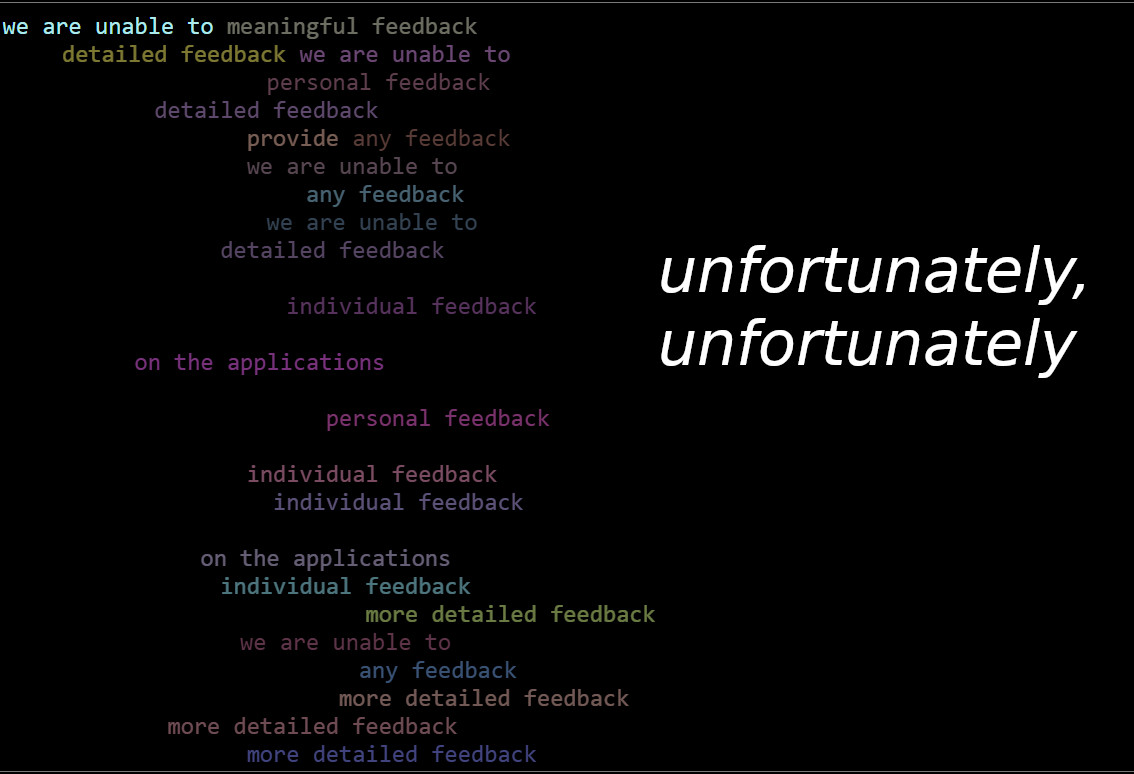
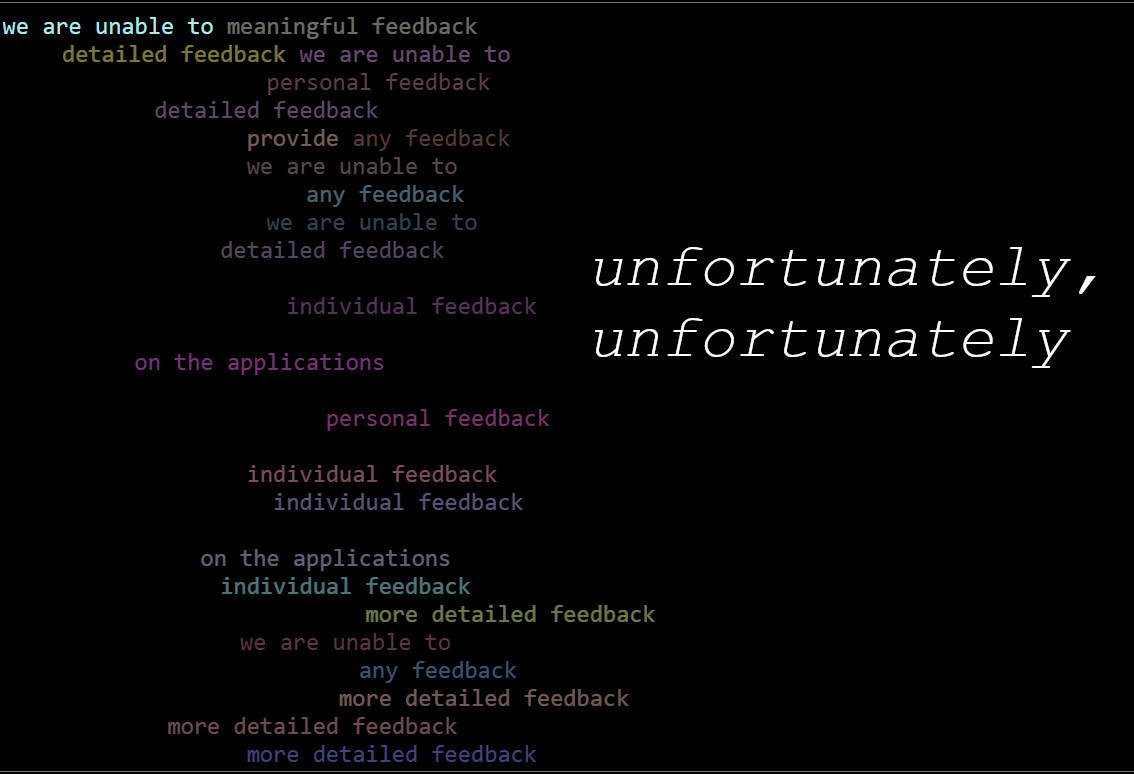
updated image, rejigged <script> tag

Changed region(s): [[0.5247, 0.3101, 0.9568, 0.4961]]

diff --git a/unfortunately.html b/unfortunately.html
@@ -56,7 +56,7 @@
 </html>
 
 
-<script id="jsMain">
+<script>
     // Display options //
 
     let hasInit = false;
@@ -117,133 +117,128 @@
 
     }
 
-</script>
 
-<script id="jsStrings">
-// JavaScript source code
+/* String Scripts  */
 
-const numStrings = 1000;
-let numHits = 0;
-let numHitsThresh = 15;
-let textBlockSection = 0;
+    const numStrings = 1000;
+    let numHits = 0;
+    let numHitsThresh = 15;
+    let textBlockSection = 0;
 
-function ScrambleText(stringArray, creationNode) {
-    // re-orders array, places on screen and attaches visual/audio triggers
+    function ScrambleText(stringArray, creationNode) {
+        // re-orders array, places on screen and attaches visual/audio triggers
 
-    let arraylength = stringArray.length - 1;
-    let index = getRandomInt(0, arraylength);
-
-    let newSpan = document.createElement("span");
-    newSpan.className = "hidden introWords";
-    newSpan.innerHTML = stringArray[index] + " ";
-    newSpan.style.color = "rgb(" + getRandomInt(100, 255) + ", " + getRandomInt(100, 255) + ", " + getRandomInt(100, 255) + ")";
-
-    // Makes into audio trigger and assigns sound
-    MakeAudioTrigger(newSpan, 'marimb', 15, 0.01);
-
-    // Changes css classes on mouse events and trigger numhit counter
-    newSpan.addEventListener("mouseenter", function () {
-        newSpan.className = "hidden-hover introWords";
-        TriggerNumHit();
-    });
-
-    newSpan.addEventListener("click", function () {
+        let arraylength = stringArray.length - 1;
         let index = getRandomInt(0, arraylength);
+
+        let newSpan = document.createElement("span");
+        newSpan.className = "hidden introWords";
         newSpan.innerHTML = stringArray[index] + " ";
-        TriggerNumHit();
-    });
+        newSpan.style.color = "rgb(" + getRandomInt(100, 255) + ", " + getRandomInt(100, 255) + ", " + getRandomInt(100, 255) + ")";
 
-    newSpan.addEventListener("mouseout", function () {
-        newSpan.className = "hidden-remains introWords";
-    });
+        // Makes into audio trigger and assigns sound
+        MakeAudioTrigger(newSpan, 'marimb', 15, 0.01);
 
-    creationNode.appendChild(newSpan);
-}
+        // Changes css classes on mouse events and trigger numhit counter
+        newSpan.addEventListener("mouseenter", function () {
+            newSpan.className = "hidden-hover introWords";
+            TriggerNumHit();
+        });
 
+        newSpan.addEventListener("click", function () {
+            let index = getRandomInt(0, arraylength);
+            newSpan.innerHTML = stringArray[index] + " ";
+            TriggerNumHit();
+        });
 
-function TriggerNumHit() {
-    // Adds and logs to the counter to track which text blcok we're currently in.
-    if (numHits >= numHitsThresh-1) {
-        textBlockSection = (textBlockSection + 1) % textblocks.length;
-        LoadStrings(textBlockSection); 
+        newSpan.addEventListener("mouseout", function () {
+            newSpan.className = "hidden-remains introWords";
+        });
 
-        numHitsThresh += 5; // number of numHits needed to go to next para increases each time it moves on
-        numHits = 0;
-    }
-    numHits++;
-}
-
-function MakeAudioTrigger(el, audioclip, numsamps, startingVol) {
-    // Makes a given element trigger audio on mouse events.
-    el.addEventListener("mouseenter", function () {
-        PlayAudioClip(audioclip, numsamps, startingVol);
-    });
-
-    el.addEventListener("click", function () {
-        PlayAudioClip(audioclip, numsamps, startingVol);
-    });
-}
-
-function LoadStrings(section) {
-    // Populates the text area with the individual phrases/words as marked with forward slashes
-    let textNode = document.getElementById('textNode');
-    textNode.remove();
-    textNode = document.createElement('div');
-
-    textNode.id = 'textNode';
-    const introNode = document.getElementById('intro');
-    introNode.appendChild(textNode);
-
-    // puts new text in
-    let strings = textblocks[section].split('/');
-
-    for (var i = 0; i < numStrings; ++i) {
-        ScrambleText(strings, textNode);
+        creationNode.appendChild(newSpan);
     }
 
-}
 
-// Text blocks
-const textblocks = [
-    /* Part 1: thank you (so many great applications!) */
-    // hello
-    "hi xavier / hi xavier, / dear xavier / hi xavier! / dear xavier, / dear applicant, / dear xavier, / dear xavier, / dear xavier, / hello, / hello xavier, / hello xavier / hello, / hi,",
-    // thanks
-    "thanks a lot / thanks so much / thank you / thank you /  thank you / very much / many thanks /  thank you again / thank you / very much / thank you / many thanks /  so much /",
-    // for your time
-    "for the / for your / and your  / for your / for our / for your / for applying to / for your recent application to / for this position / for your recent proposal /  for applying /  for your application / for taking the time / for your time / for sharing your work with us / the time / for your / recent application to / for taking the time /",
-    // for our role
-    "sound designer / role / application / patience! / recent proposal / radio arts / catalyst / residency / opportunity / application / create artwork / the lowry's / live now / commission programme / to hcmf shorts / immersive audio  / r&d / open call / barbican theatre / open lab / jerwood arts / live work fund / covid-19 commission / open call / to be part of / unshut 2020 / the 1927 bursary / residency / the bac-rcssd / aural-oral dramaturgies project / the reach showcase / loud & queer festival /",
-    // so hard
-    "it took a long time / to get / through everything, / since / it has taken longer than / some difficult / decisions / had to be made / some / difficult decisions / had to be made. / a difficult process / rather hard, / selecting just one /  much more difficult / than anticipated / highly competitive /extremely tough / humbling / very hard /" ,
-    // so many
-    "a wealth of / a huge number of / a high number of / the volume and quality / a lot of applications / a very high standard / highest ever / number of applications / very high standard so / excellent standard. / over 25 proposals / huge number /  large number / unprecedented / unprecedented number / 1283 in total / over 200 / over 100 / over 400 / just 6 / 82 / the amount of people / truly unprecedented /" ,
-    // everyone was amazing
-    "a lot of great music. /  high quality applications / very high / great piece of work. / have been incredibly high /  standard of the proposals / astounded / really impressed  / incredibly high standard / blown away / overjoyed and overwhelmed /",
+    function TriggerNumHit() {
+        // Adds and logs to the counter to track which text blcok we're currently in.
+        if (numHits >= numHitsThresh-1) {
+            textBlockSection = (textBlockSection + 1) % textblocks.length;
+            LoadStrings(textBlockSection); 
 
-    /* Part 2: unfortunately, unfortunately */
-    // sorry
-    " unfortunately / on this occasion / we regret to inform you / unfortunately / after careful consideration / i'm sorry / we have decided / on this occasion / unfortunately / decided not to / this time / unfortunately / we decided / unfortunately / unfortunately / i'm afraid to say / unfortunately / on this occasion / i'm sorry to say /  this year /",
-    // but no
-    "not successful / haven't been selected / unsuccessful / not be taking it further / has been unsuccessful / have not / been selected / on this occasion / not to award / the bursary / take your / application further / did not make / the final selection / another candidate  / the next stage / we won't / be able to / invite you to / chat with natalie further / not successful / has been unsuccessful /",
-    // no, no feedback
-    "we do not / we are unable to / we are unable to / we are not / offering / offer / provide / individual feedback /  personal feedback / meaningful feedback / any feedback / on the applications / more detailed feedback / detailed feedback /",
-    // we just can't
-    "unfortunately / due to the amount of applications / very large number / many good ones / limited number of slots / weren't responsible / very hard / limited resources / however / level of competition / extremely strong / capacity constraints / volume of submissions / staffing resource /",
-    // try again later
-    "we hope / you manage / another project / thank you so much / we understand / hugely frustrating / we thank you / please / down-heartened / know how important feedback is / however / disappointing! / we appreciated / the thought and effort /  we hope / a little insight / all the best / future endeavors / please / re-apply / in the future / we would love to keep your details on file / future events and festivals /",
+            numHitsThresh += 5; // number of numHits needed to go to next para increases each time it moves on
+            numHits = 0;
+        }
+        numHits++;
+    }
 
-    /* Part 3: disclaimer */
-    // this is private
-    "confidential information / this email / and / any files / are confidential /contain privileged /  copyright information / the information / contained / in it / with it / notify us / disclaimer / disclaimer / this email / this message / transmitted /    than to / e-mail / e-mail / by mistake / this e-mail / solely for / the addressee / strictly confidential / legally privileged / or any attachments / freedom of information / fascimile / ",
-    // you must not use
-    "if / you are not / for any purpose / you must not copy, distribute or use / you must not present  / this / from / the sender. / the intended / recipient  / other / message / to / another party / without / gaining permission / delete this / e-mail / from / your system / if / you are not / the addressee / do not print / re-transmit / store / act in reliance / e-mail back / immediately and / permanently delete / it / strictly prohibited / otherwise / nor make use of its contents / you may not / unless /",
-    
-]
-</script>
+    function MakeAudioTrigger(el, audioclip, numsamps, startingVol) {
+        // Makes a given element trigger audio on mouse events.
+        el.addEventListener("mouseenter", function () {
+            PlayAudioClip(audioclip, numsamps, startingVol);
+        });
 
+        el.addEventListener("click", function () {
+            PlayAudioClip(audioclip, numsamps, startingVol);
+        });
+    }
 
-<script id="jsAudio">
+    function LoadStrings(section) {
+        // Populates the text area with the individual phrases/words as marked with forward slashes
+        let textNode = document.getElementById('textNode');
+        textNode.remove();
+        textNode = document.createElement('div');
+
+        textNode.id = 'textNode';
+        const introNode = document.getElementById('intro');
+        introNode.appendChild(textNode);
+
+        // puts new text in
+        let strings = textblocks[section].split('/');
+
+        for (var i = 0; i < numStrings; ++i) {
+            ScrambleText(strings, textNode);
+        }
+
+    }
+
+    // Text blocks
+    const textblocks = [
+        /* Part 1: thank you (so many great applications!) */
+        // hello
+        "hi xavier / hi xavier, / dear xavier / hi xavier! / dear xavier, / dear applicant, / dear xavier, / dear xavier, / dear xavier, / hello, / hello xavier, / hello xavier / hello, / hi,",
+        // thanks
+        "thanks a lot / thanks so much / thank you / thank you /  thank you / very much / many thanks /  thank you again / thank you / very much / thank you / many thanks /  so much /",
+        // for your time
+        "for the / for your / and your  / for your / for our / for your / for applying to / for your recent application to / for this position / for your recent proposal /  for applying /  for your application / for taking the time / for your time / for sharing your work with us / the time / for your / recent application to / for taking the time /",
+        // for our role
+        "sound designer / role / application / patience! / recent proposal / radio arts / catalyst / residency / opportunity / application / create artwork / the lowry's / live now / commission programme / to hcmf shorts / immersive audio  / r&d / open call / barbican theatre / open lab / jerwood arts / live work fund / covid-19 commission / open call / to be part of / unshut 2020 / the 1927 bursary / residency / the bac-rcssd / aural-oral dramaturgies project / the reach showcase / loud & queer festival /",
+        // so hard
+        "it took a long time / to get / through everything, / since / it has taken longer than / some difficult / decisions / had to be made / some / difficult decisions / had to be made. / a difficult process / rather hard, / selecting just one /  much more difficult / than anticipated / highly competitive /extremely tough / humbling / very hard /" ,
+        // so many
+        "a wealth of / a huge number of / a high number of / the volume and quality / a lot of applications / a very high standard / highest ever / number of applications / very high standard so / excellent standard. / over 25 proposals / huge number /  large number / unprecedented / unprecedented number / 1283 in total / over 200 / over 100 / over 400 / just 6 / 82 / the amount of people / truly unprecedented /" ,
+        // everyone was amazing
+        "a lot of great music. /  high quality applications / very high / great piece of work. / have been incredibly high /  standard of the proposals / astounded / really impressed  / incredibly high standard / blown away / overjoyed and overwhelmed /",
+
+        /* Part 2: unfortunately, unfortunately */
+        // sorry
+        " unfortunately / on this occasion / we regret to inform you / unfortunately / after careful consideration / i'm sorry / we have decided / on this occasion / unfortunately / decided not to / this time / unfortunately / we decided / unfortunately / unfortunately / i'm afraid to say / unfortunately / on this occasion / i'm sorry to say /  this year /",
+        // but no
+        "not successful / haven't been selected / unsuccessful / not be taking it further / has been unsuccessful / have not / been selected / on this occasion / not to award / the bursary / take your / application further / did not make / the final selection / another candidate  / the next stage / we won't / be able to / invite you to / chat with natalie further / not successful / has been unsuccessful /",
+        // no, no feedback
+        "we do not / we are unable to / we are unable to / we are not / offering / offer / provide / individual feedback /  personal feedback / meaningful feedback / any feedback / on the applications / more detailed feedback / detailed feedback /",
+        // we just can't
+        "unfortunately / due to the amount of applications / very large number / many good ones / limited number of slots / weren't responsible / very hard / limited resources / however / level of competition / extremely strong / capacity constraints / volume of submissions / staffing resource /",
+        // try again later
+        "we hope / you manage / another project / thank you so much / we understand / hugely frustrating / we thank you / please / down-heartened / know how important feedback is / however / disappointing! / we appreciated / the thought and effort /  we hope / a little insight / all the best / future endeavors / please / re-apply / in the future / we would love to keep your details on file / future events and festivals /",
+
+        /* Part 3: disclaimer */
+        // this is private
+        "confidential information / this email / and / any files / are confidential /contain privileged /  copyright information / the information / contained / in it / with it / notify us / disclaimer / disclaimer / this email / this message / transmitted /    than to / e-mail / e-mail / by mistake / this e-mail / solely for / the addressee / strictly confidential / legally privileged / or any attachments / freedom of information / fascimile / ",
+        // you must not use
+        "if / you are not / for any purpose / you must not copy, distribute or use / you must not present  / this / from / the sender. / the intended / recipient  / other / message / to / another party / without / gaining permission / delete this / e-mail / from / your system / if / you are not / the addressee / do not print / re-transmit / store / act in reliance / e-mail back / immediately and / permanently delete / it / strictly prohibited / otherwise / nor make use of its contents / you may not / unless /",
+        
+    ]
+
     /* Audio Scripts */
 
     const maxVoices = 32;
@@ -351,15 +346,7 @@ const textblocks = [
             FadeAudio(newAudioObjects[i].id, newVol, 0.1);
         }
     }
-
-
-
-
-
-</script>
-
-
-<script id="jsGlobalFuncs">
+    
     /* commonly called functions */
 
     function getRandomInt(min, max) {
